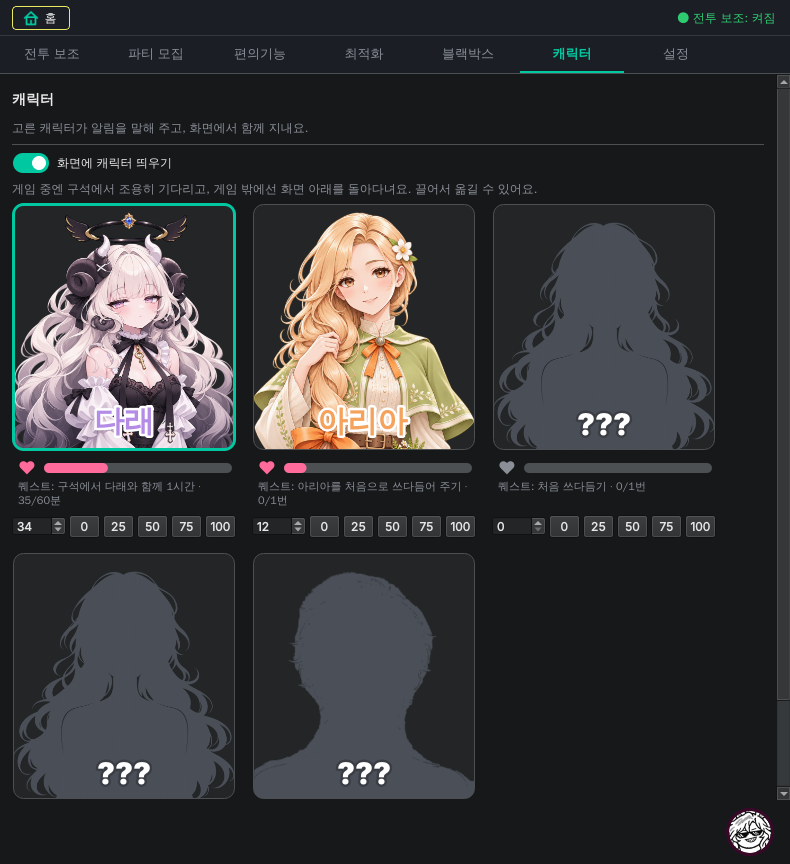
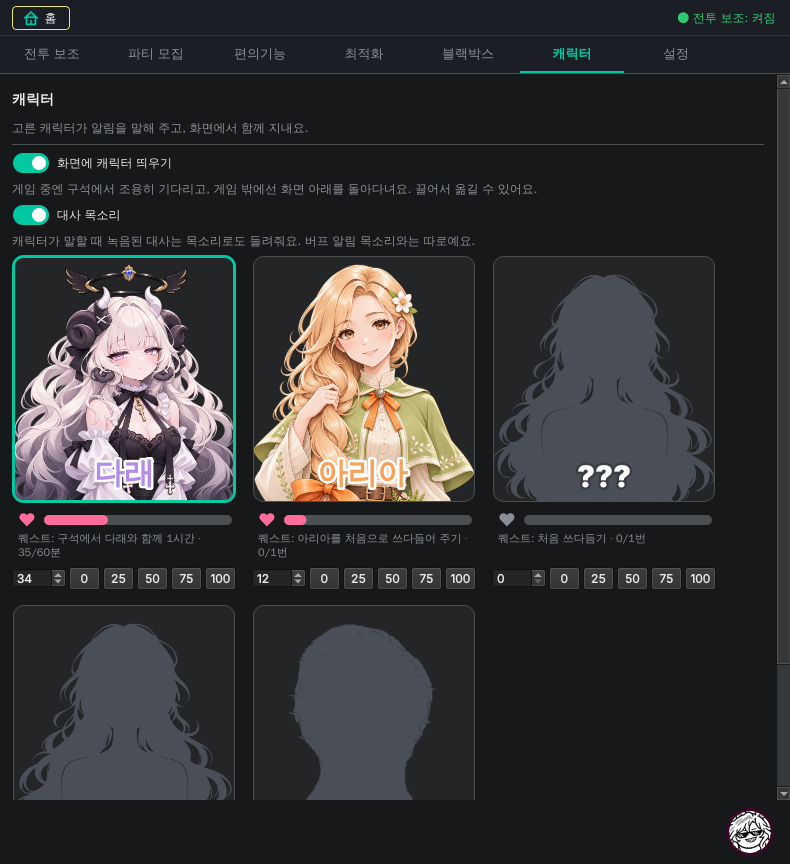
feat(character): 대사 목소리 재생 — 팩 안 녹음이 있으면 말풍선과 함께
기획 전달(사용자 11-24, 명세 '대사 목소리 재생').
- 줄의 voice 파일이 고른 캐릭터 팩 폴더에 있을 때만 재생(폴백 없음), 음량 = 알림 음량.
- 알림 우선: 알림이 나오는 중이면 건너뜀, 대사 중 알림이 오면 멈춤. 새 말풍선이면 앞 소리 멈춤.
- 앱 일시정지면 안 냄. 소리 길이만큼 말하기 그림 유지.
- 캐릭터 탭 '대사 목소리' 스위치(기본 켬, character.voiceLines).

Claude-Session: https://claude.ai/code/session_01SbFuD9LBQUw7gFTz2Mmv9g

diff --git a/tests/test_character.py b/tests/test_character.py
@@ -832,3 +832,125 @@ def test_quest_clear_triggers_stage_up_line(app, cfg):
     finally:
         ctrl.window = None
         ctrl.shutdown()
+
+
+# ---- 대사 목소리 재생(사용자 11-24 — docs/character-pet-spec.md '대사 목소리 재생') ----------------------------
+class _FakeVoice:
+    def __init__(self):
+        self.played, self.stops = [], 0
+        self.on_duration = None
+
+    def play(self, path):
+        self.played.append(path)
+        return True
+
+    def stop(self):
+        self.stops += 1
+
+
+@pytest.fixture
+def voiced(app, cfg, tmp_path, monkeypatch):
+    """임시 sounds 폴더(다래 팩에 대사/구간_25.mp3·대사/클릭.mp3만) + 가짜 펫 창·재생기."""
+    from mabinogi_addon.ui import character_controller as cc
+    from mabinogi_addon.ui import notifier
+
+    sounds = tmp_path / "sounds"
+    (sounds / "조용한 여성" / "대사").mkdir(parents=True)
+    for name in ("구간_25.mp3", "클릭.mp3"):
+        (sounds / "조용한 여성" / "대사" / name).write_bytes(b"x")
+    (sounds / "대사").mkdir()
+    (sounds / "대사" / "켜기_1.mp3").write_bytes(b"x")  # 팩 밖(기본 녹음) — 쓰지 않음
+    monkeypatch.setattr(notifier, "SOUND_DIR", sounds)
+    config.save_voice_pack("조용한 여성")
+    ctrl = cc.CharacterController()
+    ctrl.set_enabled(True)
+    ctrl.voice = _FakeVoice()
+    ctrl.window = _FakeWindow()
+    yield ctrl, sounds
+    ctrl.window = None
+    ctrl.shutdown()
+
+
+def test_voice_plays_only_existing_file_in_chosen_pack(voiced):
+    ctrl, sounds = voiced
+    ctrl._say(ln.Line("응…? 불렀어…?", voice="대사/클릭.mp3"))
+    ctrl._say(ln.Line("왔어…? 기다렸어… 조금.", voice="대사/켜기_1.mp3"))  # 팩에 없음 → 기본 폴더로 안 감
+    ctrl._say(ln.Line("…졸려."))  # 목소리 없는 줄
+    assert ctrl.voice.played == [sounds / "조용한 여성" / "대사" / "클릭.mp3"]
+    assert ctrl.window.said == ["응…? 불렀어…?", "왔어…? 기다렸어… 조금.", "…졸려."]  # 말풍선은 언제나
+    assert ctrl.voice.stops >= 3  # 새 말풍선마다 앞 소리 멈춤
+
+
+def test_voice_switch_off_and_pause_keep_bubbles_silent(voiced):
+    ctrl, _ = voiced
+    config.save_character(voiceLines=False)
+    ctrl._say(ln.Line("응…? 불렀어…?", voice="대사/클릭.mp3"))
+    config.save_character(voiceLines=True)
+    ctrl.set_paused(True)
+    ctrl._say(ln.Line("응…? 불렀어…?", voice="대사/클릭.mp3"))
+    assert ctrl.voice.played == [] and len(ctrl.window.said) == 2
+    ctrl.set_paused(False)
+    ctrl._say(ln.Line("응…? 불렀어…?", voice="대사/클릭.mp3"))
+    assert len(ctrl.voice.played) == 1
+
+
+def test_alert_sound_stops_dialogue_voice(voiced):
+    from mabinogi_addon.ui import notifier
+
+    ctrl, sounds = voiced
+    before = ctrl.voice.stops
+    notifier._announce("vivace", sounds / "조용한 여성" / "비바체 연장.mp3")
+    assert ctrl.voice.stops == before + 1
+
+
+def test_stage_up_line_plays_its_voice(voiced):
+    ctrl, sounds = voiced
+    ctrl.affinity.set_value(25)
+    ctrl._check_stage()
+    assert ctrl.window.said == ["…너, 생각보다 괜찮은 사람이네."]
+    assert ctrl.voice.played == [sounds / "조용한 여성" / "대사" / "구간_25.mp3"]
+
+
+def test_voice_player_skips_while_alert_plays_or_volume_zero(app, monkeypatch, tmp_path):
+    from mabinogi_addon.ui import notifier, voice_lines
+
+    path = tmp_path / "a.mp3"
+    path.write_bytes(b"x")
+    player = voice_lines.VoiceLinePlayer()
+    monkeypatch.setattr(notifier, "alert_playing", lambda: True)
+    assert player.play(path) is False  # 알림 우선
+    monkeypatch.setattr(notifier, "alert_playing", lambda: False)
+    monkeypatch.setattr(notifier, "master_volume", lambda: 0)
+    assert player.play(path) is False  # 알림 음량 0%
+    assert voice_lines.voice_file("조용한 여성", "../부드러운 여성/인사.mp3") is None  # 팩 밖으로 못 나감
+
+
+def test_talking_picture_lasts_as_long_as_the_voice(app):
+    from mabinogi_addon.ui.pet_window import PetWindow, load_frames
+
+    clock = [10.0]
+    b = _brain()
+    w = PetWindow(b, load_frames("다래"), roster.DARE.color, clock=lambda: clock[0])
+    try:
+        w.say(ln.Line("응… 안녕."))  # 6글자 → 글자 기준 약 0.4초
+        w.hold_talk(2.5)  # 가짜 소리 길이 2.5초
+        clock[0] += 1.5
+        w.step()
+        assert b.state == "talk_normal"  # 글자는 끝났지만 소리 동안 입 움직임 유지
+        clock[0] += 1.2
+        w.step()
+        assert b.state == "talk_end"
+        w.say(ln.Line("오늘도… 같이 있자."))
+        w.hold_talk(0.1)  # 소리가 짧으면 글자 기준 그대로
+        assert b._talk_until >= clock[0] + 0.6
+    finally:
+        w.close()
+
+
+def test_character_tab_has_voice_lines_switch_default_on(app, cfg):
+    from mabinogi_addon.ui import character_tab as ct
+
+    tab = ct.CharacterTab()
+    assert tab.voice_switch.text() == "대사 목소리" and tab.voice_switch.isChecked()
+    tab.voice_switch.setChecked(False)
+    assert config.load_voice_lines() is False

diff --git a/src/mabinogi_addon/ui/character_controller.py b/src/mabinogi_addon/ui/character_controller.py
@@ -59,6 +59,10 @@ class CharacterController(QObject):
         self._last_pos = None         # 캐릭터를 바꿀 때 새 펫이 이어받을 자리
         self.enabled = False
         self._started = False
+        self._paused = False          # 앱 일시정지(알림 멈춤) — 대사 목소리도 안 냄
+        from .voice_lines import VoiceLinePlayer
+        self.voice = VoiceLinePlayer(self)
+        self.voice.on_duration = self._hold_talk
         self._lines: dict[str, Picker] = {}
         self._feeds: dict = {}
         self.character = roster.by_pack(config.load_voice_pack())
@@ -92,7 +96,7 @@ class CharacterController(QObject):
         config.save_character(lastSeen=today(now))
         self.sync_window()
         if hello and self.window is not None:
-            self.window.say(self._pick(hello))
+            self._say(self._pick(hello))
 
     def voice_changed(self) -> None:
         self.character = roster.by_pack(config.load_voice_pack())
@@ -124,6 +128,7 @@ class CharacterController(QObject):
             self._save_affinity()  # 구석 분 누적(10분마다 저장) 나머지
         from .notifier import off_play
         off_play(self._on_sound)
+        self.voice.stop()
         for feed in self._feeds.values():
             feed.shutdown()
         if self.window is not None:
@@ -152,7 +157,32 @@ class CharacterController(QObject):
         if stage > before and self.window is not None:
             picker = self.picker()
             if picker is not None:
-                self.window.say(picker.stage_up(stage))
+                self._say(picker.stage_up(stage))
+
+    def set_paused(self, paused: bool) -> None:
+        """앱 일시정지(사냥 안 할 때) — 대사 목소리도 멈추고 안 냄."""
+        self._paused = bool(paused)
+        if paused:
+            self.voice.stop()
+
+    def _say(self, line) -> None:
+        """말풍선 + (줄에 목소리가 있고 그 팩에 파일이 있으면) 대사 목소리 — 글자가 나오기 시작할 때 함께."""
+        if self.window is None or not line:
+            return
+        self.voice.stop()  # 앞 대사 소리는 멈추고 새 것
+        self.window.say(line)
+        voice = getattr(line, "voice", None)
+        if not voice or self._paused or not config.load_voice_lines() or self.character is None:
+            return
+        from .voice_lines import voice_file
+
+        path = voice_file(self.character.pack, voice)
+        if path is not None:
+            self.voice.play(path)
+
+    def _hold_talk(self, seconds: float) -> None:
+        if self.window is not None:
+            self.window.hold_talk(seconds)
 
     def _pick(self, situation: str):
         """지금 구간 대사로 고르기(구간 이하 줄, 지금 구간 줄 2배)."""
@@ -216,18 +246,18 @@ class CharacterController(QObject):
         for event in events:
             kind = event[0]
             if kind == "say" and picker is not None and self.window is not None:
-                self.window.say(self._pick(event[1]))
+                self._say(self._pick(event[1]))
             elif kind == "click" and self.affinity is not None:
                 if self.affinity.click(now):
                     self._save_affinity()
                     if picker is not None and self.window is not None:
-                        self.window.say(self._pick("annoyed_click"))
+                        self._say(self._pick("annoyed_click"))
             elif kind == "pet_done" and self.affinity is not None:
                 result = self.affinity.petted(now, today())
                 if result != "none":
                     self._save_affinity()
                 if result == "annoyed" and picker is not None and self.window is not None:
-                    self.window.say(self._pick("annoyed_pet"))
+                    self._say(self._pick("annoyed_pet"))
             elif kind == "corner_minute" and self.affinity is not None:
                 # 1분마다 누적 — 저장은 오를 때·10분마다만(설정 동기화가 매분 올리지 않게), 끌 때 한 번 더
                 got = self.affinity.corner_minute(today())
@@ -237,7 +267,8 @@ class CharacterController(QObject):
                 config.save_character(corner={"x": round(event[1]), "y": round(event[2])})
 
     def _on_sound(self, _buff_id: str, path) -> None:
-        """알림 소리 → 그 캐릭터 목소리면 호감도 +1·알아챔·말풍선."""
+        """알림 소리 → 대사 목소리는 멈춤(알림 우선), 그 캐릭터 목소리면 호감도 +1·알아챔·말풍선."""
+        self.voice.stop()
         if not self.enabled or self.character is None or self.affinity is None:
             return
         try:

diff --git a/src/mabinogi_addon/ui/voice_lines.py b/src/mabinogi_addon/ui/voice_lines.py
@@ -1,0 +1,80 @@
+"""캐릭터 대사 목소리 재생(docs/character-pet-spec.md '대사 목소리 재생', 사용자 11-24).
+
+- 말풍선 줄의 `voice`(팩 폴더 기준 상대 경로) 파일이 **고른 캐릭터의 팩 폴더에 실제로 있을 때만** 재생 — 기본 녹음으로 폴백 안 함.
+- 음량 = 설정의 알림 음량(0%면 안 냄). 알림 소리가 나오는 중이면 건너뜀(말풍선은 그대로), 대사 중 알림이 오면 대사를 멈춤
+  (컨트롤러가 notifier.on_play에서 stop). 새 말풍선이 뜨면 앞 소리를 멈추고 새 것.
+- 소리 길이를 알면(durationChanged) on_duration(초)로 알려 말하기 그림을 그만큼 유지한다.
+"""
+from __future__ import annotations
+
+import logging
+from pathlib import Path
+
+from PySide6.QtCore import QObject, QUrl
+
+_log = logging.getLogger(__name__)
+
+
+def voice_file(pack: str, voice: str | None) -> Path | None:
+    """그 팩 폴더 안 대사 목소리 파일(있을 때만)."""
+    if not pack or not voice:
+        return None
+    from .notifier import SOUND_DIR
+
+    path = SOUND_DIR / pack / voice
+    try:
+        path.resolve().relative_to((SOUND_DIR / pack).resolve())  # 팩 밖으로 나가는 경로는 쓰지 않음
+    except (ValueError, OSError):
+        return None
+    return path if path.is_file() else None
+
+
+class VoiceLinePlayer(QObject):
+    def __init__(self, parent: QObject | None = None) -> None:
+        super().__init__(parent)
+        self._player = None
+        self._audio = None
+        self.on_duration = None   # (초) → 말하기 그림 유지
+
+    def _ensure(self) -> bool:
+        if self._player is not None:
+            return True
+        try:
+            from PySide6.QtMultimedia import QAudioOutput, QMediaPlayer
+
+            self._audio = QAudioOutput(self)
+            self._player = QMediaPlayer(self)
+            self._player.setAudioOutput(self._audio)
+            self._player.durationChanged.connect(self._duration)
+            return True
+        except Exception:  # noqa: BLE001 — 오디오 없음 → 말풍선만
+            _log.debug("대사 목소리 재생기 만들기 실패", exc_info=True)
+            self._player = None
+            return False
+
+    def play(self, path: Path) -> bool:
+        """재생 시작이면 True. 알림이 나오는 중이거나 음량 0이면 건너뜀."""
+        from .notifier import _sync_default_device, alert_playing, effective_volume, master_volume
+
+        if alert_playing():
+            return False
+        volume = effective_volume(1.0, master_volume())
+        if volume <= 0 or not self._ensure():
+            return False
+        self.stop()
+        _sync_default_device(self._audio)
+        self._audio.setVolume(volume)
+        self._player.setSource(QUrl.fromLocalFile(str(path)))
+        self._player.play()
+        return True
+
+    def stop(self) -> None:
+        if self._player is not None:
+            try:
+                self._player.stop()
+            except Exception:  # noqa: BLE001
+                pass
+
+    def _duration(self, ms: int) -> None:
+        if ms > 0 and self.on_duration is not None:
+            self.on_duration(ms / 1000.0)

diff --git a/src/mabinogi_addon/ui/character_tab.py b/src/mabinogi_addon/ui/character_tab.py
@@ -213,6 +213,15 @@ class CharacterTab(QWidget):
         v.addLayout(top)
         self.pet_hint = hint_label("")
         v.addWidget(self.pet_hint)
+        # 대사 목소리(사용자 11-24): 말풍선 줄에 녹음이 있으면 소리로도 — 끄면 말풍선만(알림 목소리는 그대로)
+        voice_row = QHBoxLayout()
+        self.voice_switch = switch("대사 목소리")
+        self.voice_switch.setChecked(config.load_voice_lines())
+        self.voice_switch.toggled.connect(lambda on: config.save_character(voiceLines=bool(on)))
+        voice_row.addWidget(self.voice_switch)
+        voice_row.addStretch(1)
+        v.addLayout(voice_row)
+        v.addWidget(hint_label("캐릭터가 말할 때 녹음된 대사는 목소리로도 들려줘요. 버프 알림 목소리와는 따로예요."))
         grid = QGridLayout()
         grid.setHorizontalSpacing(16)
         grid.setVerticalSpacing(14)

diff --git a/src/mabinogi_addon/ui/notifier.py b/src/mabinogi_addon/ui/notifier.py
@@ -285,6 +285,20 @@ def off_play(listener) -> None:
         _play_listeners.remove(listener)
 
 
+def alert_playing() -> bool:
+    """알림 소리(버프·투아림 등 SoundNotifier)가 지금 나오는 중인지 — 캐릭터 대사 목소리는 알림이 우선이라 이때 건너뜀."""
+    for notifier in list(_live):
+        player = getattr(notifier, "_player", None)
+        try:
+            from PySide6.QtMultimedia import QMediaPlayer
+
+            if player is not None and player.playbackState() == QMediaPlayer.PlaybackState.PlayingState:
+                return True
+        except Exception:  # noqa: BLE001 — 판정 실패는 '아님'
+            continue
+    return False
+
+
 def _announce(buff_id: str, path: Path) -> None:
     if buff_id == "preview":
         return

diff --git a/src/mabinogi_addon/ui/pet_window.py b/src/mabinogi_addon/ui/pet_window.py
@@ -92,6 +92,13 @@ class PetWindow(QWidget):
         self.brain.talk(now, len(text), mood)
         self.update()
 
+    def hold_talk(self, seconds: float) -> None:
+        """말풍선이 뜬 때부터 seconds초 동안 말하기 그림 유지(대사 목소리 길이)."""
+        if self._bubble:
+            text, start, end = self._bubble
+            self.brain.hold_talk(start + seconds)
+            self._bubble = (text, start, max(end, start + seconds + 1.5))
+
     def bubble(self) -> str | None:
         return self._bubble[0] if self._bubble else None
 

diff --git a/src/mabinogi_addon/config.py b/src/mabinogi_addon/config.py
@@ -2332,6 +2332,11 @@ def load_pet_idle(path: Path = LOCAL_CONFIG_PATH) -> dict:
     return raw if isinstance(raw, dict) else {}
 
 
+def load_voice_lines(path: Path = LOCAL_CONFIG_PATH) -> bool:
+    """'대사 목소리'(기본 켬) — 끄면 펫 말풍선만, 알림 목소리에는 영향 없음."""
+    return _character(path).get("voiceLines") is not False
+
+
 def load_pet_last_seen(path: Path = LOCAL_CONFIG_PATH) -> str:
     """마지막으로 앱을 켠 날(YYYY-MM-DD) — '오랜만에 켰을 때' 인사."""
     v = _character(path).get("lastSeen")

diff --git a/src/mabinogi_addon/character/brain.py b/src/mabinogi_addon/character/brain.py
@@ -444,5 +444,10 @@ class Brain:
         self._go(f"talk_{mood}" if f"talk_{mood}" in self.profile.anims else "talk_normal", now)
         return True
 
+    def hold_talk(self, until: float) -> None:
+        """대사 목소리가 글자보다 길면 말하기 그림을 소리 끝까지 유지(입 움직임). 짧으면 글자 기준 그대로."""
+        if self.state in TALKING and self.state != "talk_end":
+            self._talk_until = max(self._talk_until, until)
+
     def dragging(self) -> bool:
         return self._dragging

diff --git a/src/mabinogi_addon/ui/main_window.py b/src/mabinogi_addon/ui/main_window.py
@@ -2689,6 +2689,7 @@ class MainWindow(QMainWindow):
         """
         self._paused = paused
         self.optimization_tools.set_paused(paused)
+        self.character_tools.set_paused(paused)  # 대사 목소리도 멈춤
         for c in (self.buff_controller, self.debuff_controller):
             if c is not None:
                 c.set_paused(paused)

diff --git a/docs/status.md b/docs/status.md
@@ -63,6 +63,7 @@
   - **카드 인사 녹음(11-24, 기획 1dbd64ff)**: 카드 누를 때 `notifier.greeting_path(팩)` — 그 팩 폴더의 `인사.mp3`가 있으면 그것, 없으면 지금처럼 투아림 알림(sound_path 규칙). 팩 밖 기본 녹음 인사로는 폴백 안 함. `notifier.alert_files`가 인사.mp3를 알림 파일에서 뺌(test_config_buffs·test_character 팩 파일 수 검사도 이걸로). 녹음은 사용자가 나중에 넣음(지금 없음).
   - **투아림 추가 알림 소리 자리(11-24, 녹음목록.md 1절)**: tuarim_tab 추가 알림(두 번째 기준)은 `notifier.second_sound_path`('투아림 부스트 발동 직전2.mp3' 팩→기본, 없으면 첫 알림 소리 — 버프 2차와 같은 규칙), 첫 알림은 그대로, refresh_sound는 둘 다 갱신. 펫 말풍선은 '…2.mp3' 줄이 없으면 1차 줄(Picker.alert), 호감도·퀘스트 알림 수는 2차도 같은 알림으로 셈. 팩 안 `대사/` 폴더는 목록·파일 수 검사에 영향 없음(최상위 폴더만 팩, mp3는 폴더 안 한 단계만). 파일 없으면 소리 그대로라 노트 없음.
   - **호감도 구간 대사(11-24, 기획 24108b6c)**: lines.json schemaVersion 2(1도 읽음) — 줄 객체 선택 키 `stage`(0/25/50/75/100, 잘못되면 0)·`voice`(팩 폴더 안 상대 .mp3만, 보관만 — 재생은 녹음 뒤). Picker.pick(상황, 구간): 지금 구간 이하 줄만, 지금 구간(>0) 줄 2배, 연속 금지 그대로. 새 상황 `stage_up`: 구간이 오르는 순간(퀘스트 깸·제작자 구간 버튼 포함) 그 구간 줄 한 번 — 여러 구간 건너뛰면 가장 높은 것만, 내려가면 없음, 펫 꺼져 있으면 말 안 하고 안 쌓음(controller._check_stage). 다래·아리아 lines.json에 구간 줄 24개씩(stage_up 4개, 분위기 붙임) + voice(0구간 10줄·구간 오름 4줄, 녹음목록.md 2·3절). 원격 대사는 schemaVersion 2 — 캐릭터 기능은 아직 게시 전이라 예전 앱 없음(1만 읽는 앱이 있다면 원격을 버리고 내장본). 렌더 `docs/assets/character-alpha-20261124/stage_up_100_dare.png`·`stage_up_100_aria.png`.
+  - **대사 목소리 재생(11-24, 기획 '대사 목소리 재생')**: `ui/voice_lines.py` VoiceLinePlayer — 말풍선 줄 voice가 고른 캐릭터 팩 폴더(assets/sounds/<팩>/<voice>)에 실제로 있을 때만(팩 밖·기본 녹음 폴백 없음), 음량 = 알림 음량(0%면 안 냄), 알림이 나오는 중이면 건너뜀(notifier.alert_playing), 대사 중 알림이 오면 멈춤(on_play), 새 말풍선이면 앞 소리 멈춤, 게임 중에도, 앱 일시정지면 안 냄(main_window._set_paused → character_tools.set_paused). 소리 길이(durationChanged)만큼 말하기 그림 유지(brain.hold_talk — 짧으면 글자 기준). 캐릭터 탭 '대사 목소리' 스위치(기본 켬, config character.voiceLines). 번들: build_windows `--add-data src/mabinogi_addon/assets;assets`라 팩 안 `대사/` 하위 폴더도 그대로 포함. 렌더 main_character_tab.png(스위치 자리).
 - **캐릭터·데스크톱 펫 정리본(11-24)** → [docs/character-pet-spec.md](character-pet-spec.md): 정해진 것·1차(다래만, 지금 그림) 범위·시작 전 정할 4가지·나중 목록. 아래 11-24 기록은 그 근거.
 - **목소리 팩 캐릭터화 기획(11-24, 기획 세션 — 사용자 아이디어, 결정 대기)** — 팩마다 이름·성격, 음성 알림 때 게임 위 얼굴, 앱 안 상호작용·호감도(미리 짠 대사, 제작자 잡담 장치 확장). 캐릭터 그림 요청문 템플릿 `docs/characters/design-request-template.md`(사용자 제공) — 캐릭터마다 `docs/characters/<이름>.md`로 채움. 남은 결정: 이름·성격, 그림 준비, 호감도 대사 글자/목소리, 제작자 잡담과 관계.
   **데스크톱 펫(사용자 결정 11-24)**: SD(데포르메) 캐릭터가 화면을 돌아다님. 게임이 앞에 없으면 바탕화면 전체(작업 표시줄·창 윗변), **게임이 앞이면 구석으로 돌아가 앉음** — 구석 자리는 사용자가 끌어서 정함(저장). 상호작용 때문에 캐릭터 자체는 클릭을 받음(클릭 통과 아님 — 구석의 캐릭터 크기만큼만). 화면 판독 캡처에서 반드시 제외(capture_exclusion). 그림은 캐릭터당 동작별 스프라이트 15~20장 — 한 캐릭터로 먼저 시험.   **그림 두 벌(사용자 결정 11-24)**: 앱 안(잡담·캐릭터 카드·알림 얼굴)은 **원래 비율 얼굴/상반신**(템플릿 전신 컨셉 아트에서 잘라 씀), 화면을 돌아다니는 펫은 **데포르메(SD) 스프라이트**. 앱 안 얼굴을 살짝 움직이는 라이브 애니메이션(Live2D류)은 나중에 검토.
